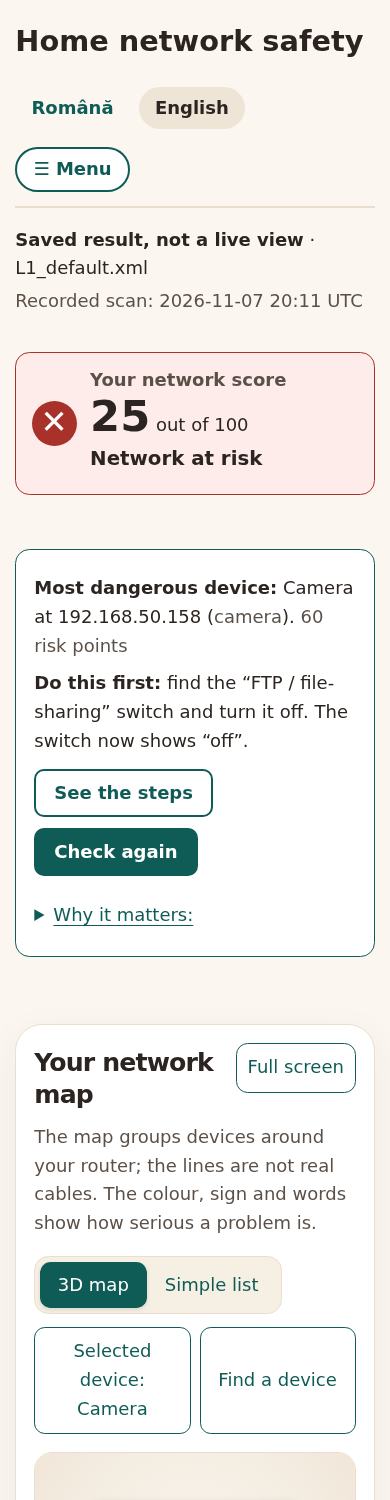
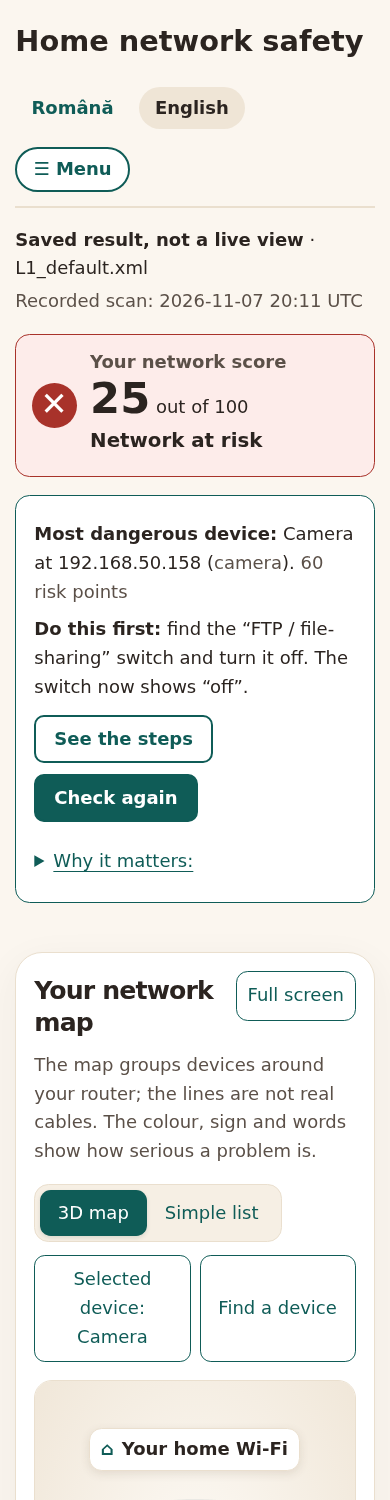
[ui] Header, nav and the saved-result line align with the wide hero; tighter answer cards (#273)
On map pages the header and .scan-context now use the hero's 72rem width instead of
46rem, and the hero's answer cards drop their own block margins (the grid gap spaces
them). Screenshots retaken; #288's CSS test follows the new selectors.

diff --git a/src/tool/web/static/netmap.css b/src/tool/web/static/netmap.css
@@ -1,7 +1,9 @@
 /* Map-only refinement of agent-B's warm palette. All device data stays text. */
 body:has(#network-map) { max-width: 68rem; }
-body:has(#network-map) > main > :not(#network-map):not(.hero),
-body:has(#network-map) > header, body:has(#network-map) > footer { max-width: 46rem; margin-inline: auto; }
+body:has(#network-map) > main > :not(#network-map):not(.hero):not(.scan-context),
+body:has(#network-map) > footer { max-width: 46rem; margin-inline: auto; }
+/* The header and nav line up with the wide hero below them (#273). */
+body:has(#network-map) > header { max-width: 72rem; margin-inline: auto; }
 [hidden] { display: none !important; }
 .netmap { container-type: inline-size; padding: 1.5rem; border: 1px solid var(--c-line); border-radius: 1.5rem;
   background: var(--c-surface); box-shadow: var(--shadow-2); }
@@ -128,7 +130,9 @@ body.netmap-expanded { overflow: hidden; }
    the grid is one column, so the answer (first in the page) stays above the map. */
 .hero { display: grid; gap: 1.25rem; }
 .hero-answer { display: grid; gap: 1rem; align-content: start; min-width: 0; }
-body:has(#network-map) > main > .hero.has-map { max-width: 72rem; margin-inline: auto; }
+.hero-answer > section { margin-block: 0; }
+body:has(#network-map) > main > .hero.has-map,
+body:has(#network-map) > main > .scan-context { max-width: 72rem; margin-inline: auto; }
 @media (min-width: 60rem) {
   .hero.has-map { grid-template-columns: minmax(18rem, 1fr) minmax(0, 1.5fr); align-items: start; }
 }

diff --git a/tests/test_web_map.py b/tests/test_web_map.py
@@ -263,6 +263,8 @@ def test_map_panel_shortcuts_have_focusable_destinations(lang):
 def test_hero_uses_wide_page_and_map_panels_follow_container_width():
     css = (STATIC / "netmap.css").read_text(encoding="utf-8")
     assert ":not(#network-map):not(.hero)" in css
-    assert "body:has(#network-map) > main > .hero.has-map { max-width: 72rem" in css
+    assert "body:has(#network-map) > main > .hero.has-map,\n" in css
+    assert "> main > .scan-context { max-width: 72rem" in css
+    assert "body:has(#network-map) > header { max-width: 72rem" in css  # aligned with the hero
     assert ".netmap { container-type: inline-size" in css
     assert "@container (max-width: 40rem)" in css
